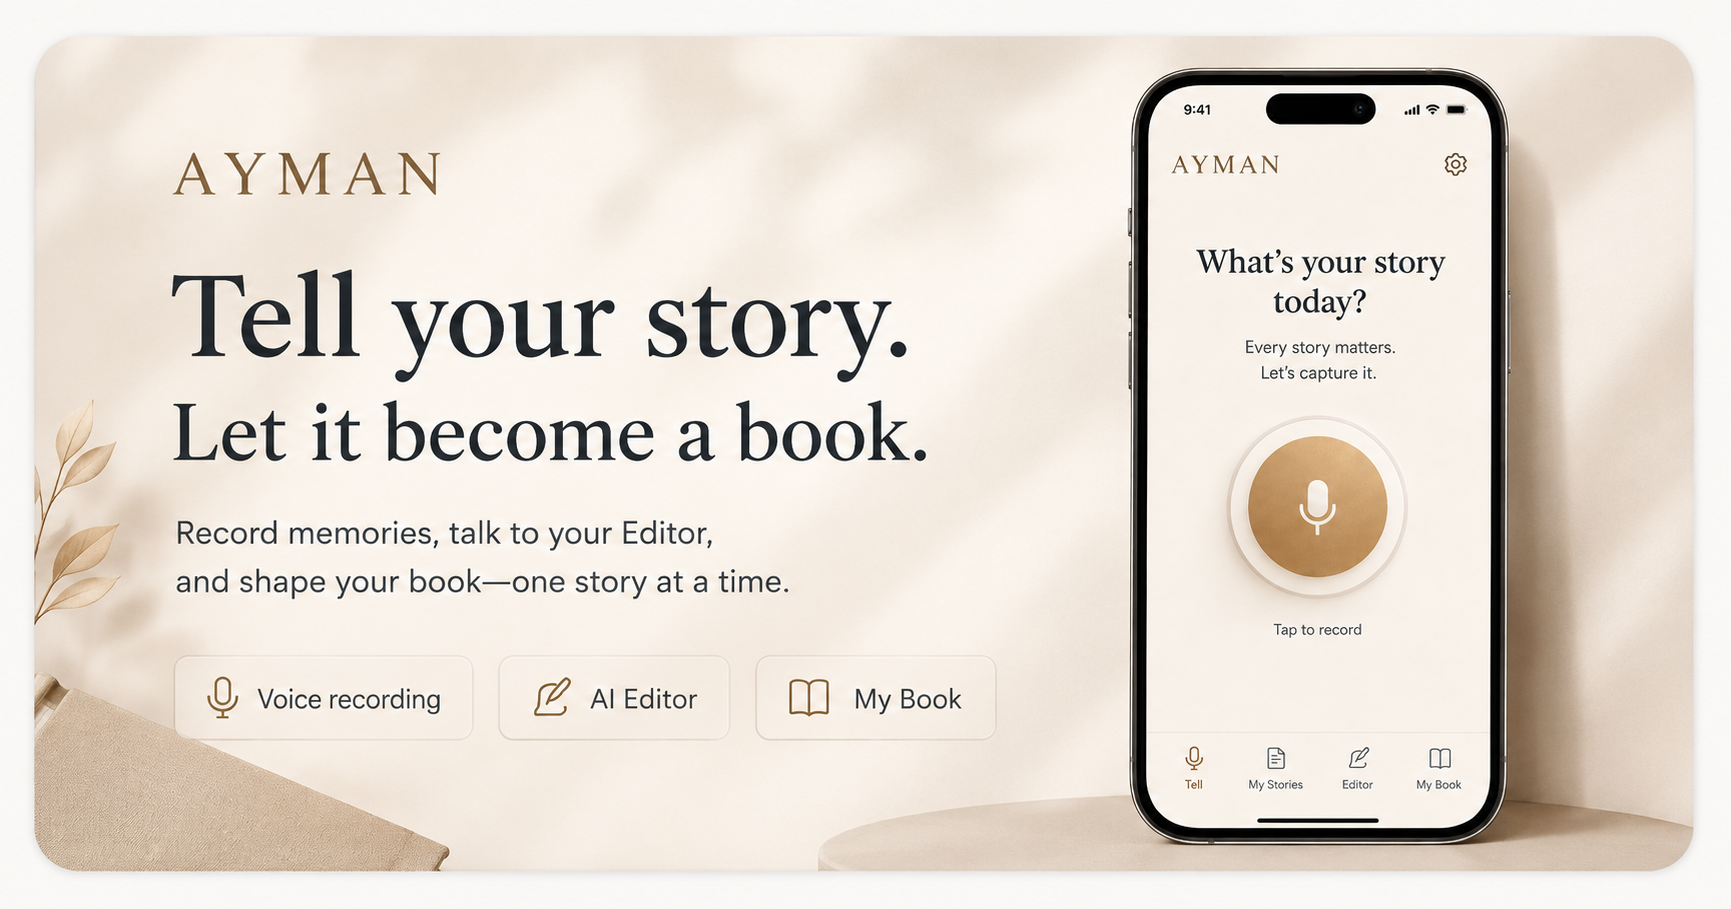
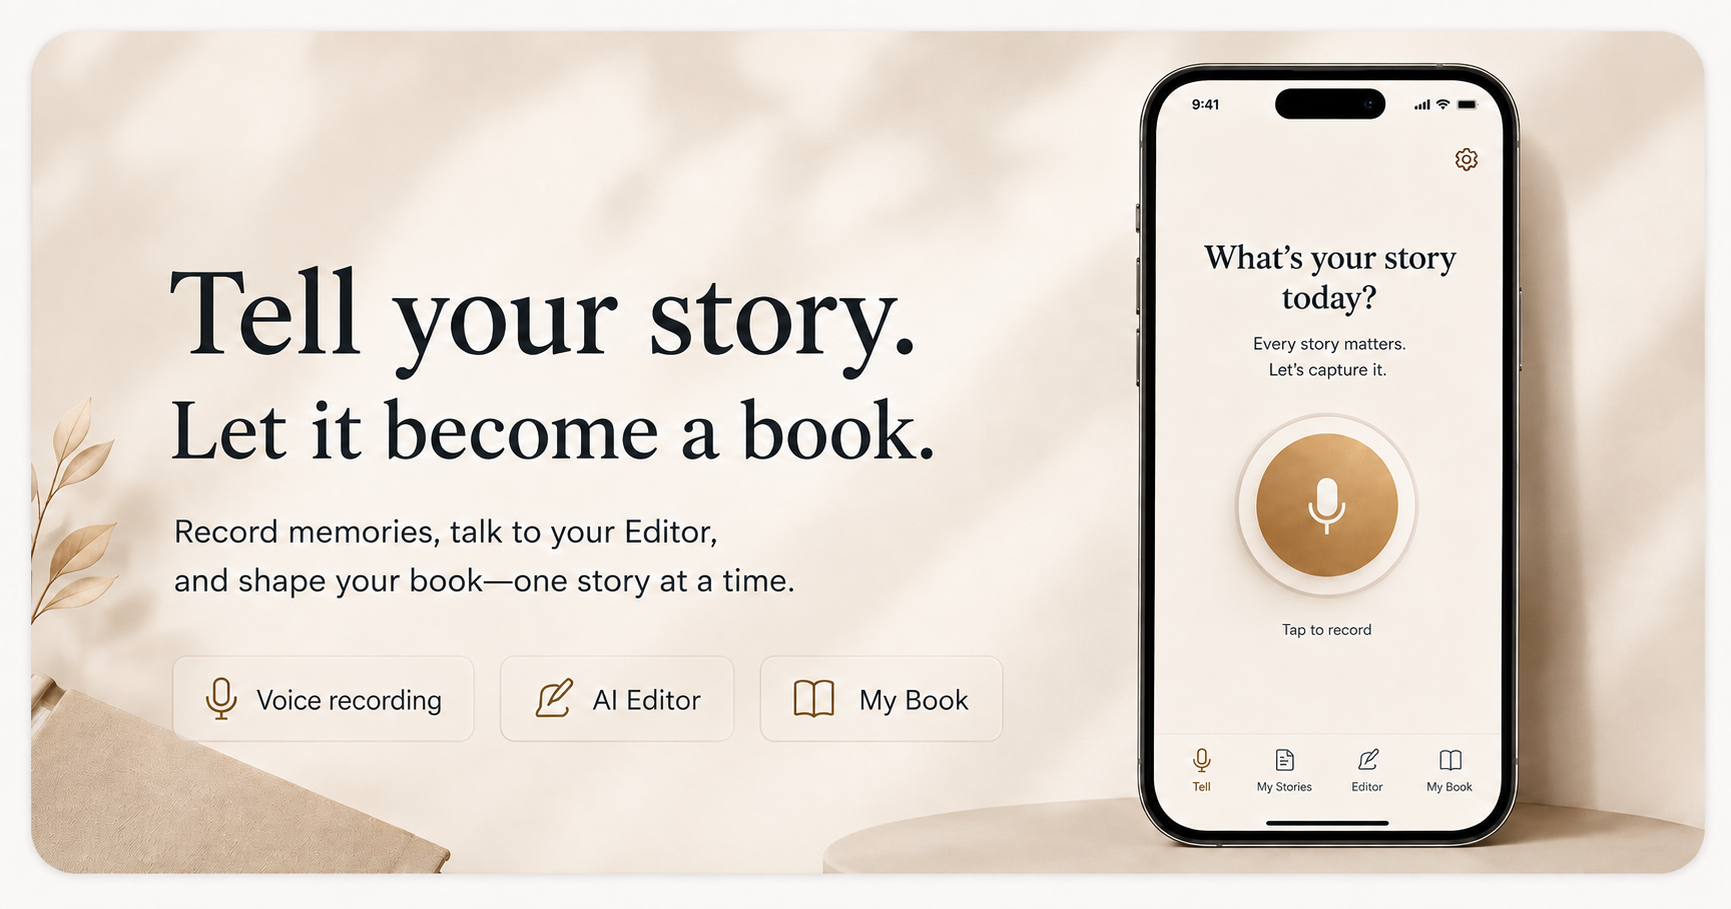
Swap link-preview image for the new universal one (no name baked in)
Ola replaced the Ayman-specific mockup with a generic one so the same
image works across all panels (Ayman, Ola, Soulaf, ...). The per-panel
name now comes from the page title instead, via generateMetadata on the
book layout — link previews for /soulaf, /ola etc. show that panel's
name, not a hardcoded "Ayman".

diff --git a/webapp/app/[bookId]/layout.tsx b/webapp/app/[bookId]/layout.tsx
@@ -1,7 +1,20 @@
+import type { Metadata } from "next";
 import { getBookBySlug } from "@/lib/getBook";
 import { NavBottom } from "@/components/NavBottom";
 import { NavSidebar } from "@/components/NavSidebar";
 import { InstallPrompt } from "@/components/InstallPrompt";
+
+export async function generateMetadata({
+  params,
+}: {
+  params: Promise<{ bookId: string }>;
+}): Promise<Metadata> {
+  const { bookId } = await params;
+  const book = await getBookBySlug(bookId);
+  return {
+    title: `${book.displayName} — Every story matters`,
+  };
+}
 
 export default async function BookLayout({
   children,
